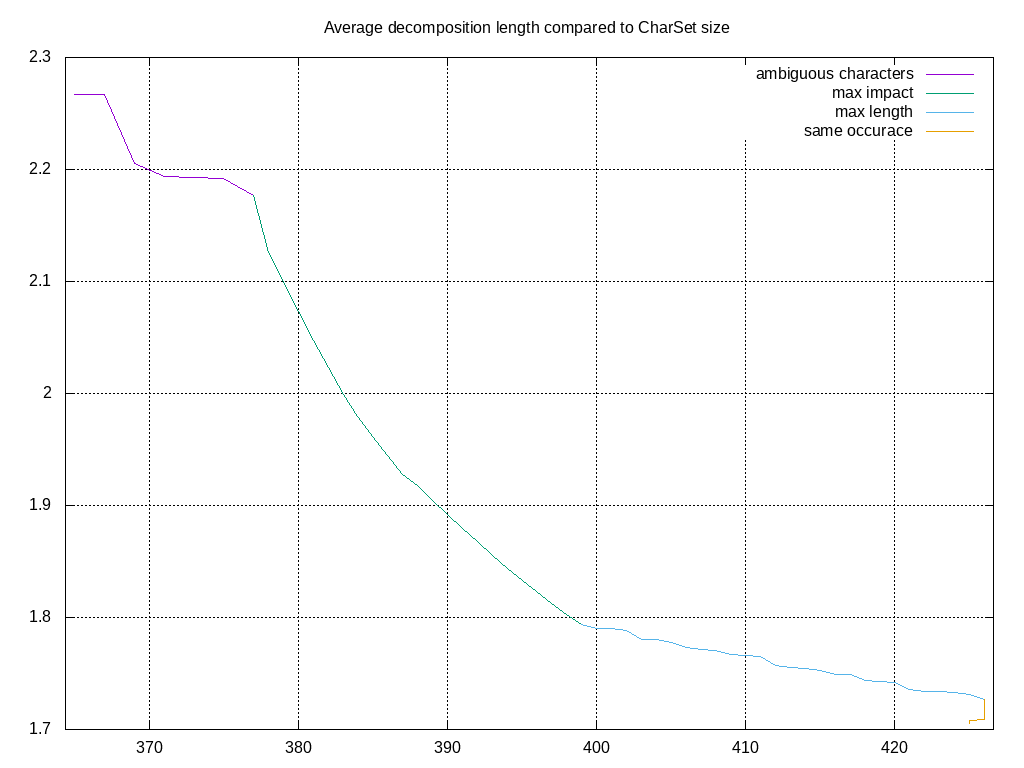
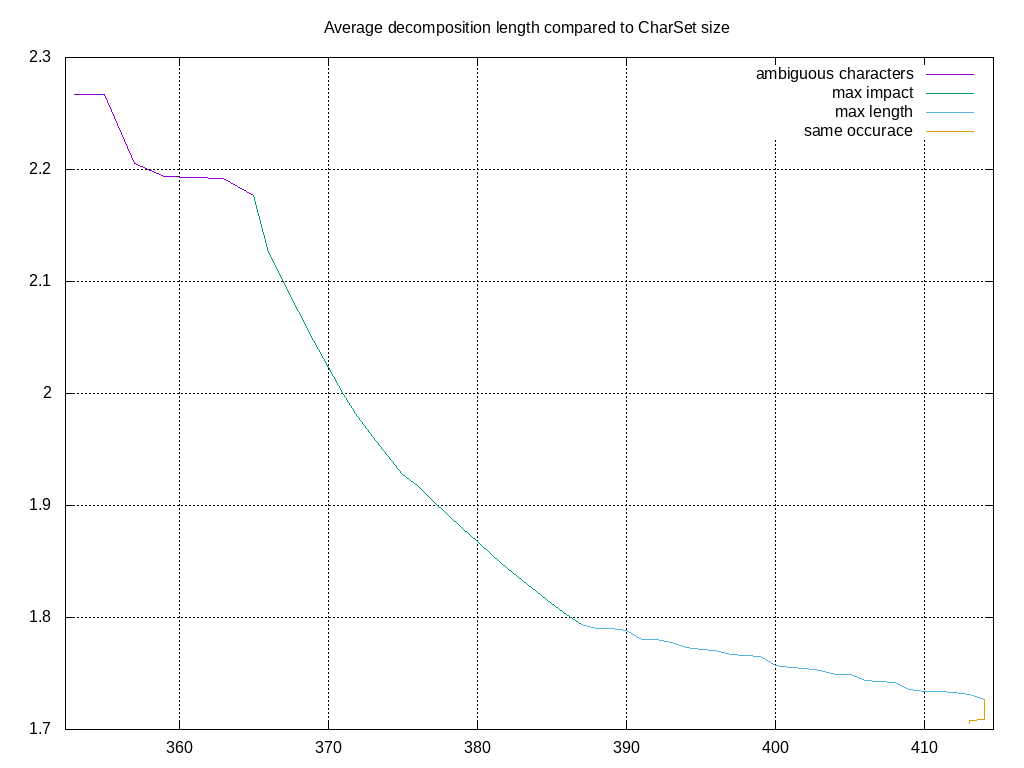
bugfix delete signs with length 0

diff --git a/src/main/java/de/uro/citlab/cjk/util/DecomposerUtil.java b/src/main/java/de/uro/citlab/cjk/util/DecomposerUtil.java
@@ -118,7 +118,7 @@ public class DecomposerUtil {
         List<Char> values = new LinkedList<>(dec.chars.values());
         if (onlyWithCounts) {
             values.removeIf((t) -> {
-                return t.getCountAtom() <= 0;
+                return t.getCountAtom() <= 0 || t.getLength() < 1;
             });
         }
         values.sort((o1, o2) -> {
@@ -134,7 +134,6 @@ public class DecomposerUtil {
             } catch (Exception e) {
                 throw new RuntimeException(e);
             }
-//            System.out.println(key + " = (len=" + length + ") " + Decomposer.decompose(key));
         }
         FileUtil.writeLines(outFile, out);
 
@@ -189,8 +188,8 @@ public class DecomposerUtil {
         LOG.debug("substituting ambiguous characters...", maxLength);
         while (reduceSolveAmbiguousChars(dec) != null) {
             int size = getCharSet(dec).size();
-            LOG.debug("leaves = {} distributionlength = {}", size, DecomposerUtil.getLengthDistribution(dec));
             double newLength = DecomposerUtil.getAvgLength(dec);
+            LOG.debug(String.format("leaves = %3d avgLength = %.3f distributionlength = %s", size, newLength, getLengthDistribution(dec)));
             listList.get("size").add((double) size);
             listList.get("max impact").add(Double.NaN);
             listList.get("max length").add(Double.NaN);
@@ -202,10 +201,10 @@ public class DecomposerUtil {
         int idx = 1;
         while (reduceMaxImprovement(dec, relImprovement) != null) {
             int size = getCharSet(dec).size();
-            LOG.debug("leaves = {} distributionlength = {}", size, getLengthDistribution(dec));
             double newLength = getAvgLength(dec);
+            LOG.debug(String.format("leaves = %3d avgLength = %.3f distributionlength = %s", size, newLength, getLengthDistribution(dec)));
             if (LOG.isTraceEnabled()) {
-                LOG.trace(String.format("%2d: %.2f %.4f%% %.4f%%", idx++, newLength, (length / newLength - 1) * 100, (newLength / firstlength) * 100));
+                LOG.trace(String.format("%2d: %.3f %.4f%% %.4f%%", idx++, newLength, (length / newLength - 1) * 100, (newLength / firstlength) * 100));
             }//            runList.add((double) i);
             listList.get("size").add((double) size);
             listList.get("max impact").add(newLength);
@@ -221,8 +220,8 @@ public class DecomposerUtil {
         LOG.debug("substituting characters longer than {}...", maxLength);
         while (reduceMaxLength(dec, maxLength) != null) {
             int size = getCharSet(dec).size();
-            LOG.debug("leaves = {} distributionlength = {}", size, getLengthDistribution(dec));
             double newLength = getAvgLength(dec);
+            LOG.debug(String.format("leaves = %3d avgLength = %.3f distributionlength = %s", size, newLength, getLengthDistribution(dec)));
             listList.get("size").add((double) size);
             listList.get("max impact").add(Double.NaN);
             listList.get("max length").add(newLength);
@@ -234,8 +233,8 @@ public class DecomposerUtil {
         LOG.debug("substituting leaves that are only part of one character .", maxLength);
         while (reduceSubstituteLeaf(dec) != null) {
             int size = getCharSet(dec).size();
-            LOG.debug("leaves = {} distributionlength = {}", size, getLengthDistribution(dec));
             double newLength = getAvgLength(dec);
+            LOG.debug(String.format("leaves = %3d avgLength = %.3f distributionlength = %s", size, newLength, getLengthDistribution(dec)));
             listList.get("size").add((double) size);
             listList.get("max impact").add(Double.NaN);
             listList.get("max length").add(Double.NaN);
@@ -243,10 +242,6 @@ public class DecomposerUtil {
             listList.get("ambiguous characters").add(Double.NaN);
         }
 
-//        plot.add(toArray(runList));
-//        plot.add(toArray(sizeList));
-//        plot.add(toArray(lengthList));
-//        plot.add(toArray(lengthList2));
         return listList;
 
     }
@@ -262,7 +257,7 @@ public class DecomposerUtil {
     public static Set<Char> getCharSet(Decomposer composer) {
         HashSet<Char> res = new LinkedHashSet<>();
         for (Char object : composer.chars.values()) {
-            if (object.isLeaf() && object.getCountAtom() > 0) {
+            if (object.isLeaf() && object.getCountAtom() > 0 && object.getLength() > 0) {
                 res.add(object);
             }
         }

diff --git a/README.md b/README.md
@@ -73,7 +73,7 @@ java -jar target/CJK-decomposition-1.0-SNAPSHOT-jar-with-dependencies.jar -p -u 
 ```
 The plot looks like that (see the four reduction steps described before):
 ![example file](example_decomposition.png "example file")
-The file __decompositions.txt__ contains the 1608 raw characters, its decomposed version and the full decomposition
+The file __decompositions.txt__ contains the 1593 raw characters, its decomposed version and the full decomposition
 ```
 [...]
 事	事	事
@@ -84,7 +84,7 @@ The file __decompositions.txt__ contains the 1608 raw characters, its decomposed
 反	反	⿸𠂆又
 [...]
 ```
-The file __leaves.txt__ contains the 416 characters defined as leaves.
+The file __leaves.txt__ contains the 413 characters defined as leaves.
 ```
 [...]
 [ U+06587 '文' len= 1/ 4 (occurance=  19/ 222) leaf=true valid=true] '文'=>'⿱⿱丶一⿻丿乀'
